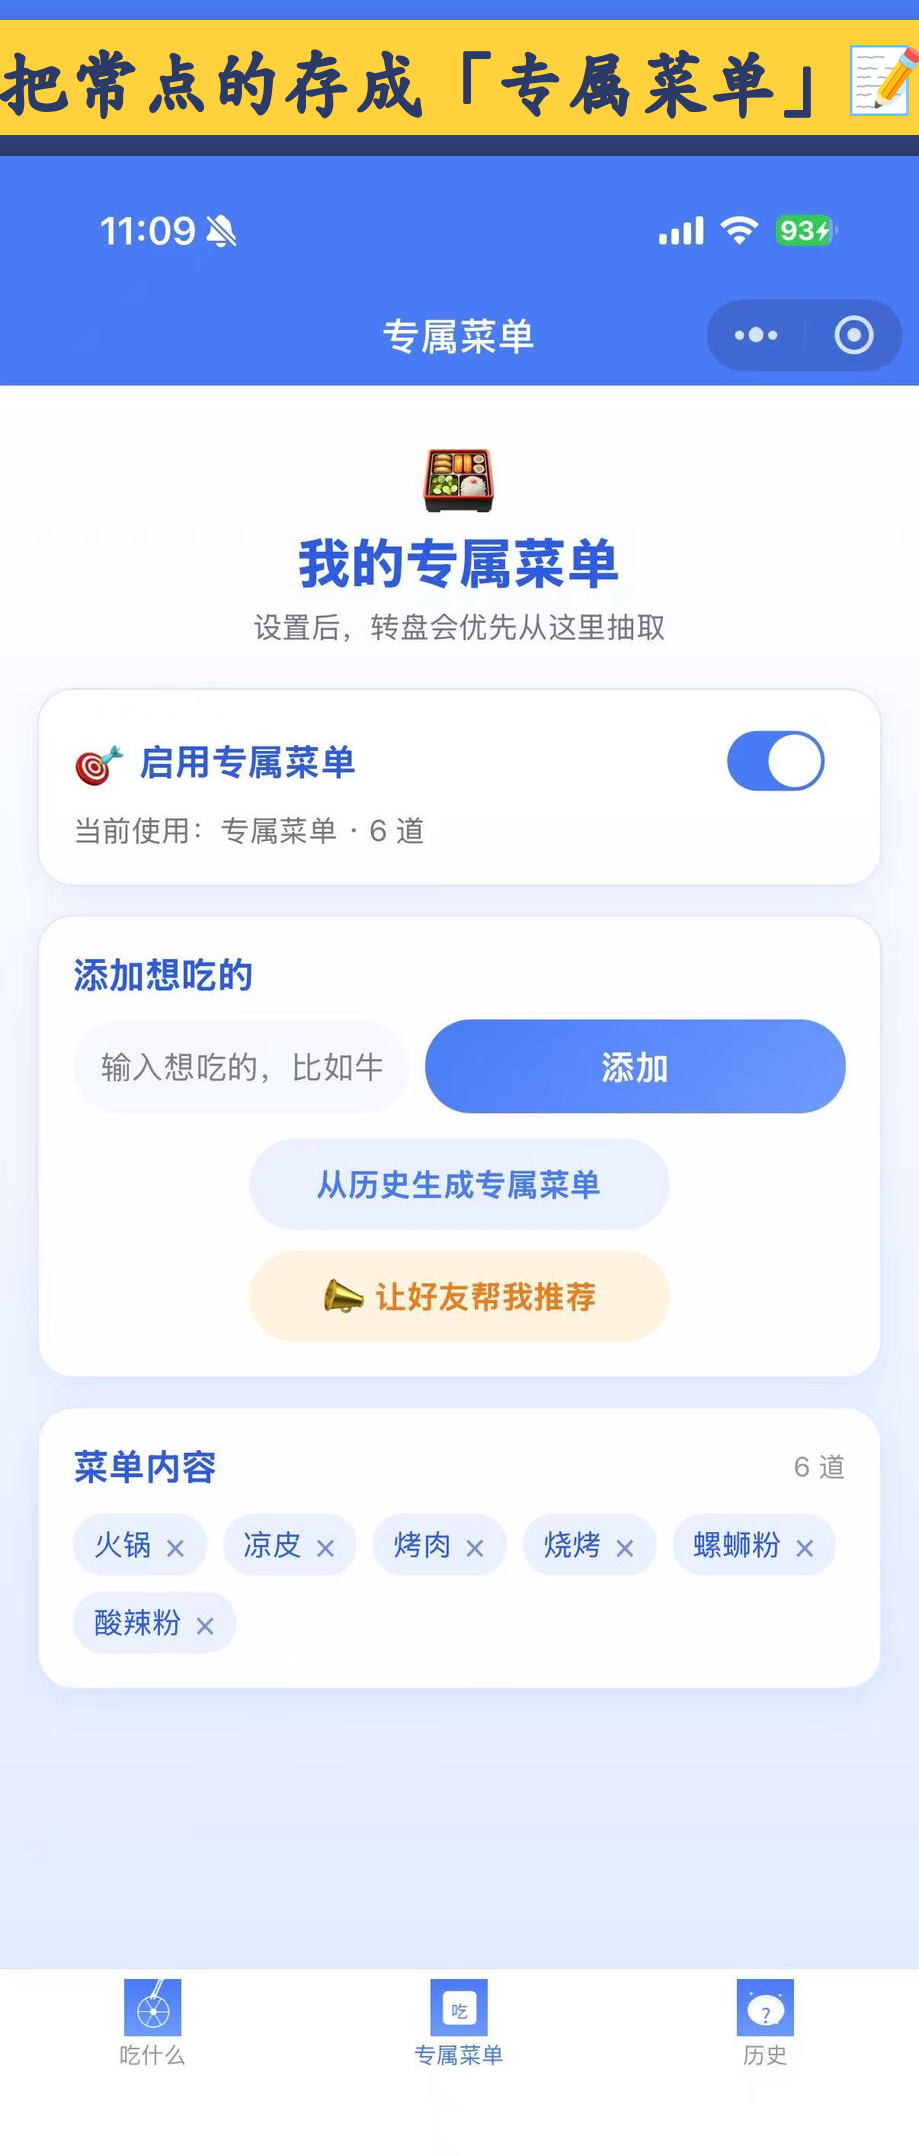
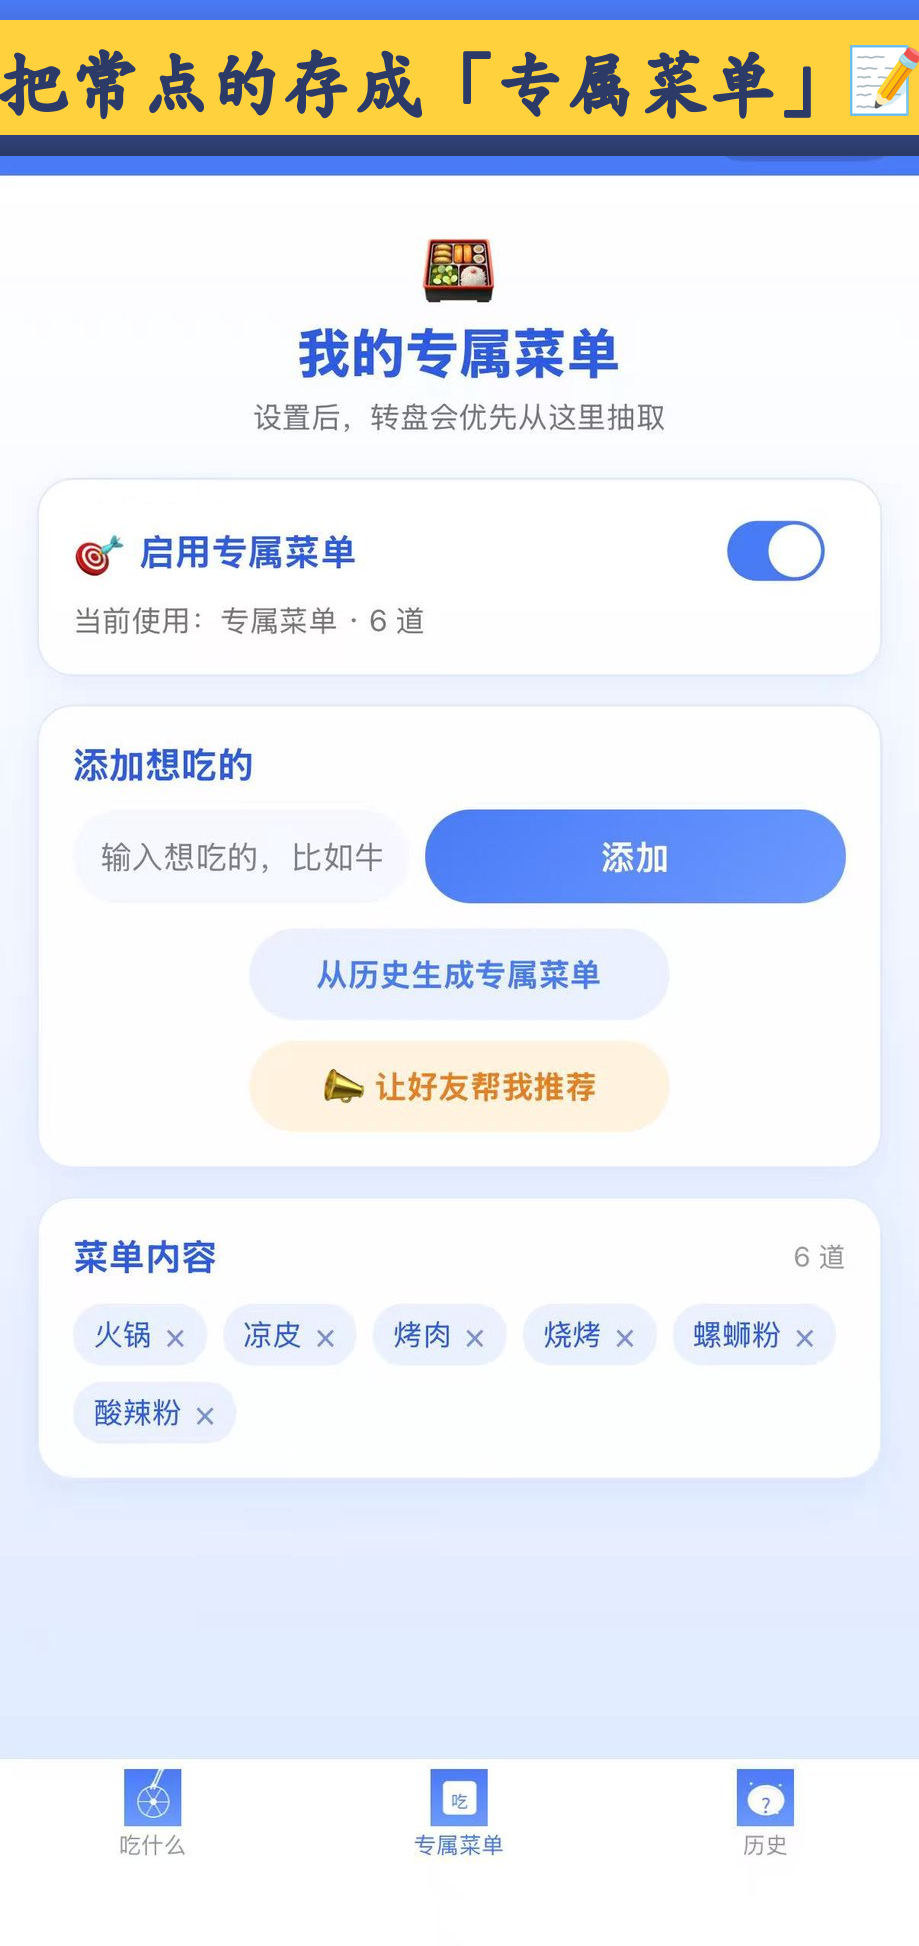
fix: 裁掉配图顶部微信状态栏/导航栏，封面盖住领外卖券按钮，结果图底部裁掉领券条，彻底清除第三方/领券痕迹

diff --git a/images/gen_promo.py b/images/gen_promo.py
@@ -33,13 +33,13 @@ SRC_DIR = '/home/yps/.config/Qoder/SharedClientCache/cache/images/3c07adc4'
 ITEMS = [
     # (文件名, 输出名, 是否封面, 主标题, 副标题)
     ('7a752ed98310990827a2fe144fd65021-701fe080.jpg', '1_cover.png', True,
-     '治好我的选择困难🎯', '打工人中午干饭 0 内耗'),
+     '治好我的选择困难🎯', '打工人中午干饭 0 内耗', 130, None),
     ('11935d6d2513962df54ffe9070b94553-0e3543ab.jpg', '2_result.png', False,
-     '手一划，命运帮我决定吃啥🎲', None),
+     '手一划，命运帮我决定吃啥🎲', None, 210, 1500),
     ('78874f9f75a5ff8b327f6fe64be933db-ab4912a7.jpg', '3_menu.png', False,
-     '把常点的存成「专属菜单」📝', None),
+     '把常点的存成「专属菜单」📝', None, 210, None),
     ('d4c9e7b7e2f9c4ef51a319ae1fb99766-cbe0ad00.jpg', '4_help.png', False,
-     '纠结就甩给同事帮我抽🤝', None),
+     '纠结就甩给同事帮我抽🤝', None, 210, None),
     # 注：原「外卖券」截图含淘宝/美团等第三方平台，小红书禁止导流，已移除。
 ]
 
@@ -144,9 +144,25 @@ def block_center(canvas, cx, y, s, size, text_fill, block_fill, bold=True, cute=
 
 
 def process(item):
-    fname, out, cover, title, sub = item
+    fname, out, cover, title, sub, crop, crop_b = item
     src = Image.open(os.path.join(SRC_DIR, fname)).convert('RGB')
     W, Hs = src.size
+
+    # 封面：盖住 App 自带的「领外卖券」按钮（避免领券/导流痕迹）
+    if cover:
+        d0 = ImageDraw.Draw(src)
+        bg = src.getpixel((60, 1520))          # 取按钮左侧空白处的背景色
+        d0.rectangle([250, 1440, 726, 1600], fill=bg)   # 先抹平原按钮
+        pill = [270, 1452, 706, 1588]
+        d0.rounded_rectangle(pill, radius=68, fill=CREAM)
+        draw_center(src, W / 2, 1486, '🎲 转到啥就吃啥', int(W * 0.046),
+                    NAVY, cute=True)
+
+    # 裁顶部微信状态栏/导航栏（含 ···⊙ 胶囊）；需要时一并裁掉底部领券条/标签栏
+    bottom = crop_b if crop_b else Hs
+    src = src.crop((0, crop, W, bottom))
+    W, Hs = src.size
+
     band = int(W * (0.44 if cover else 0.17))
     canvas = Image.new('RGB', (W, Hs + band), WHITE)
 
